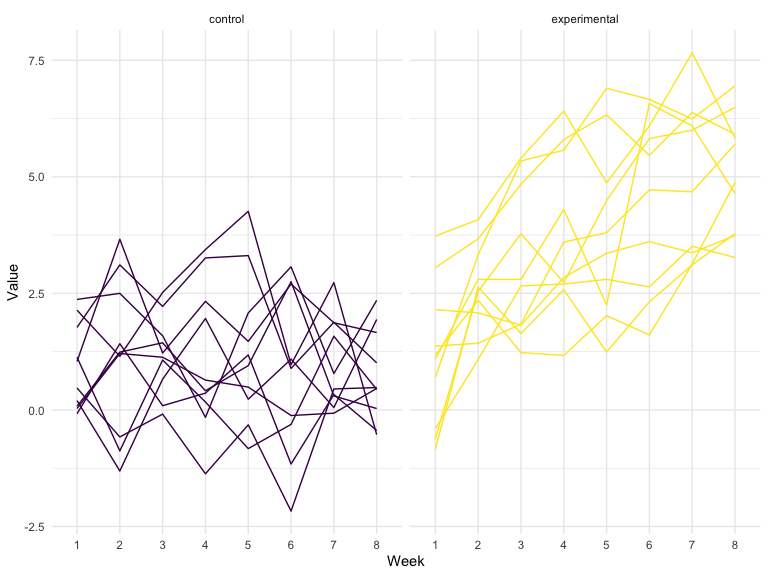
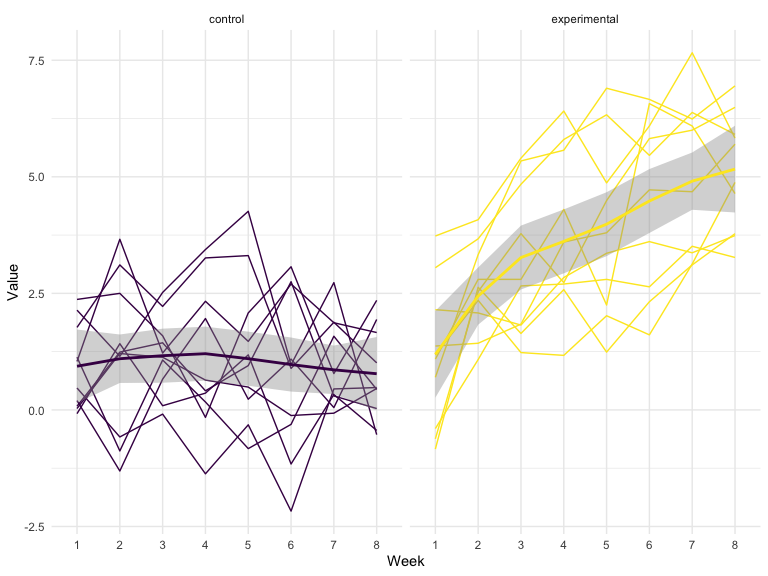
Problem 2: updating spaghetti plot to have a trend line

Changed region(s): [[0.5625, 0.2188, 0.9688, 0.6875], [0.0938, 0.5625, 0.5, 0.7188]]

diff --git a/p8105_hw5_mtr2143.md b/p8105_hw5_mtr2143.md
@@ -174,6 +174,7 @@ long_data <-
 long_data %>% 
   ggplot(aes(x = week, y = value, group = interaction(tx_arm, subject_id), color = tx_arm)) +
   geom_line() +
+  geom_smooth(aes(group = tx_arm)) +
   facet_grid(. ~ tx_arm) +
   xlab("Week") + ylab("Value") +
   theme(
